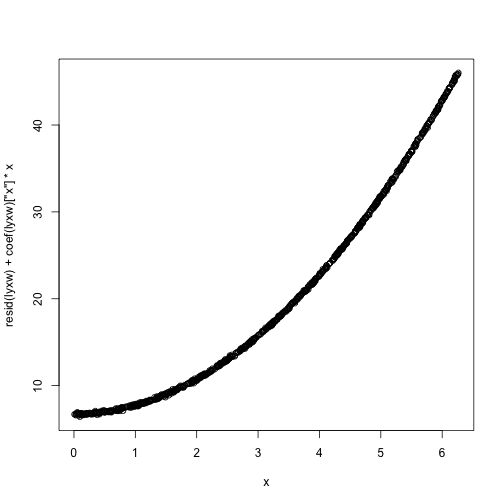
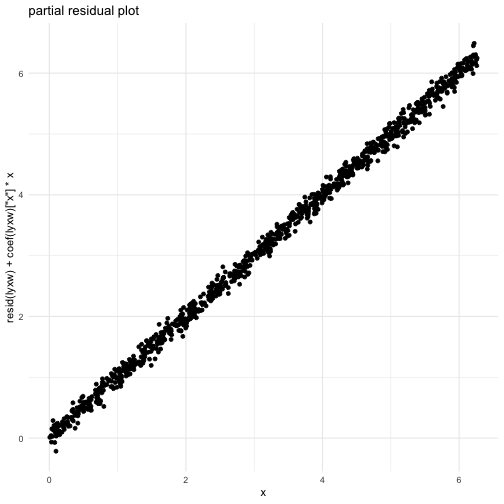
update figs

diff --git a/_posts/2019-08-16-lr-functional-form.md b/_posts/2019-08-16-lr-functional-form.md
@@ -27,7 +27,7 @@ N = 1000
 x <- runif(N, min = 0, max=2*pi)
 w <- .5*x + sin(x) + rnorm(N, sd=.25)
 sy <- rnorm(N, sd=.1)
-y <- x^2 + w + sy
+y <- x + w + sy
 df = data.frame(x=x,w=w,y=y)
 ```
 
@@ -44,7 +44,7 @@ ggplot(df, aes(x=x, y=w,col=y, size=y)) +
   geom_point() + theme_minimal()
 ```
 
-![plot of chunk xwy](../posts/figures/2019-08-16-lr-functional-form/xwy-1.png)
+![plot of chunk xwy](/Users/vanAmsterdam/git/vanamsterdam.github.io/posts/figures/2019-08-16-lr-functional-form/xwy-1.png)
 
 Let's say we're particualrly interested in the relationship between $y$ and $x$, both conditional on $w$.
 Looking at the *marginal* assocation between $y$ and $x$ with a scatterplot will set us on the wrong foot, 
@@ -54,10 +54,11 @@ because of the assocation between $x$ and $w$.
 ```r
 ggplot(df, aes(x=x,y=y)) + 
   geom_point() + 
-  ggtitle("Marginal association between x and y")
+  ggtitle("Marginal association between x and y") + 
+  theme_minimal()
 ```
 
-![plot of chunk marginal](../posts/figures/2019-08-16-lr-functional-form/marginal-1.png)
+![plot of chunk marginal](/Users/vanAmsterdam/git/vanamsterdam.github.io/posts/figures/2019-08-16-lr-functional-form/marginal-1.png)
 
 To construct the correct plot, we can generate a partial residual plot, which is created with 
 
@@ -69,7 +70,10 @@ In a plot:
 
 ```r
 lyxw <- lm(y~x+w)
-plot(x, resid(lyxw)+coef(lyxw)['x']*x)
+ggplot(df, aes(x=x,y=resid(lyxw)+coef(lyxw)['x']*x)) + 
+  geom_point() + 
+  ggtitle("partial residual plot") + 
+  theme_minimal()
 ```
 
-![plot of chunk partresid](../posts/figures/2019-08-16-lr-functional-form/partresid-1.png)
+![plot of chunk partresid](/Users/vanAmsterdam/git/vanamsterdam.github.io/posts/figures/2019-08-16-lr-functional-form/partresid-1.png)
